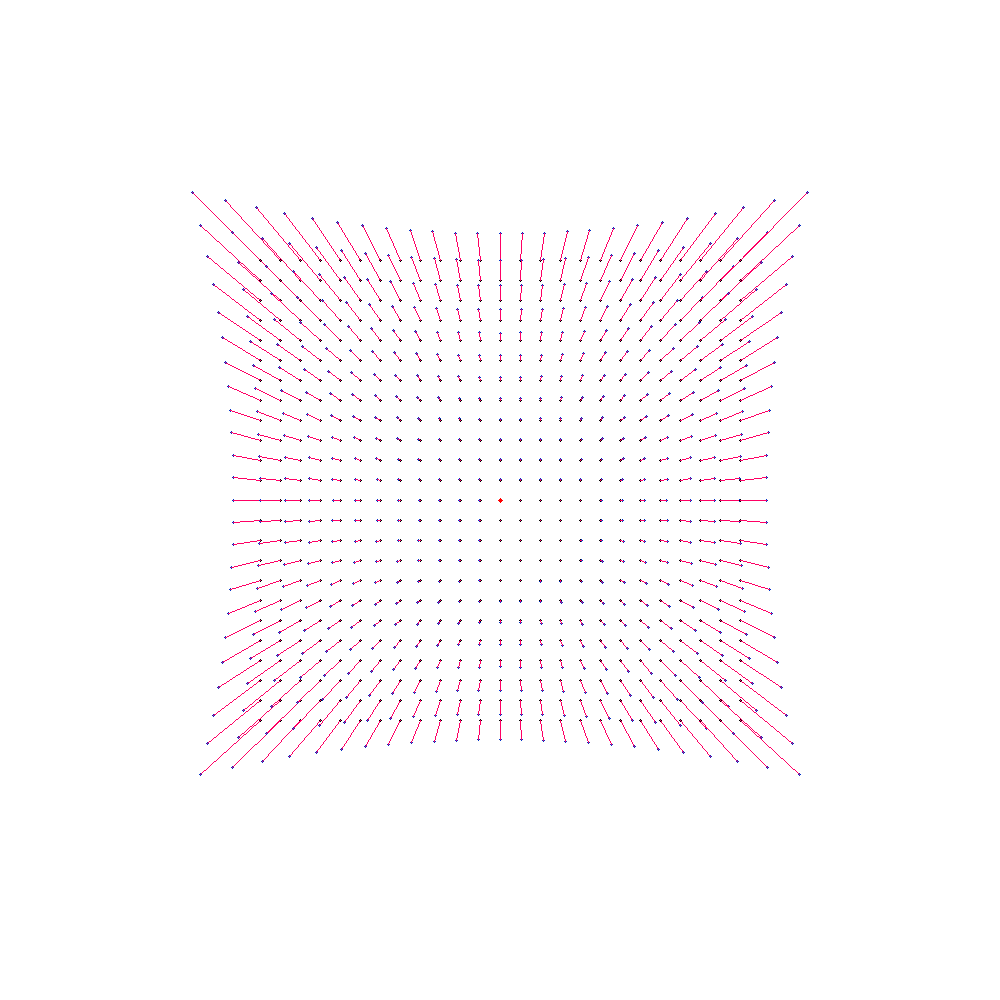
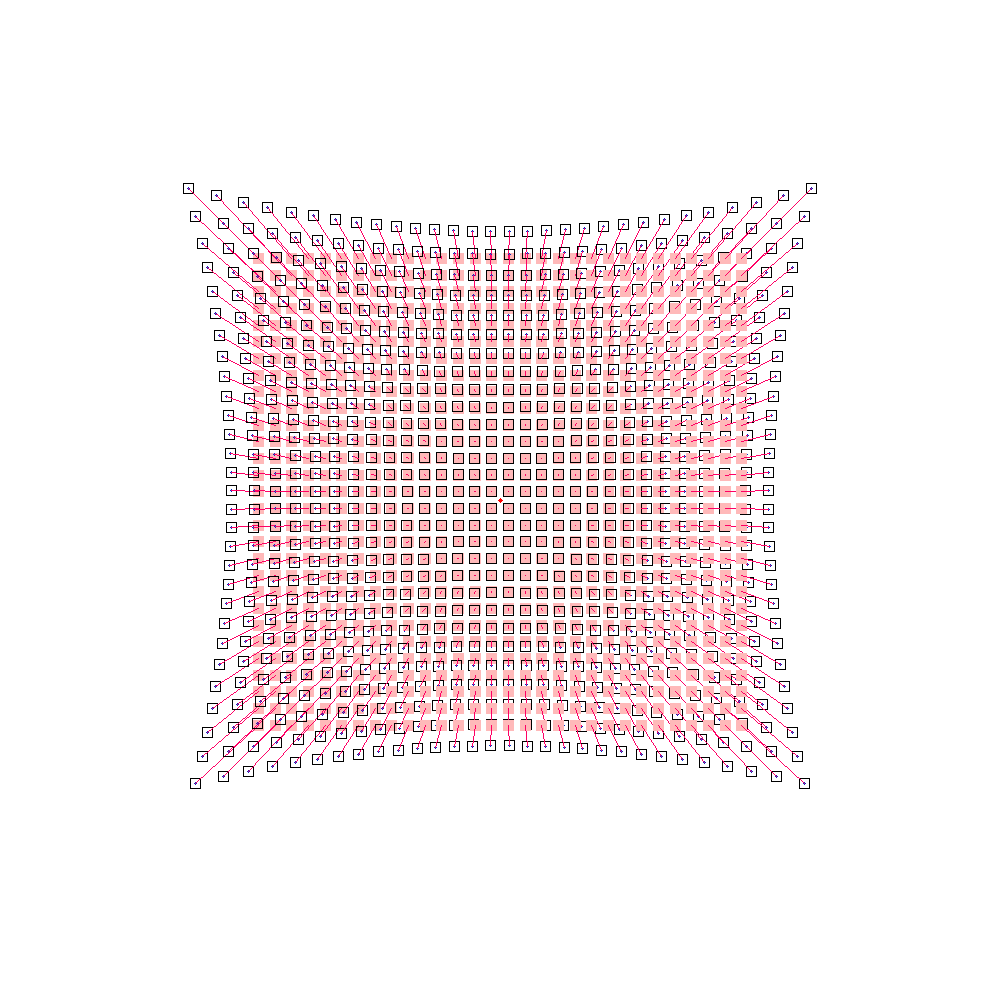
update

Changed region(s): [[0.186, 0.186, 0.806, 0.775]]

diff --git a/2d_image_plane_and_distortion.py b/2d_image_plane_and_distortion.py
@@ -5,9 +5,11 @@ import matplotlib.pyplot as plt
 image_height    = 500
 image_width     = 500
 
+rectangle_size = 5
+
 #create a list of image co-ords evenly spaced across the image
 image_co_ords = []
-num_points = 25
+num_points = 30
 
 for i in range(num_points):
     for j in range(num_points-1):
@@ -130,6 +132,12 @@ for coords in image_co_ords:
 
     cv2.circle(blank_image, (int(cx_offset),    int(cy_offset)), 2, (0,0,255),   -1)
     cv2.circle(blank_image, (int(x_offset),     int(y_offset)) , 1, (0,0,0), -1)
+
+    #draw small squares at each orgirnal and final point 
+
+    cv2.rectangle(blank_image, (int(x_offset)-rectangle_size, int(y_offset)-rectangle_size), (int(x_offset)+rectangle_size, int(y_offset)+rectangle_size), (185,185,255), -1)
+    cv2.rectangle(blank_image, (int(x_dn_offset)-rectangle_size, int(y_dn_offset)-rectangle_size), (int(x_dn_offset)+rectangle_size, int(y_dn_offset)+rectangle_size), (0,0,0), 1)
+
     #plot the vector line from original to final point 
     cv2.line(blank_image, (int(x_offset), int(y_offset)), (int(x_dn_offset), int(y_dn_offset)), (100,0,255), 1)
     #cv2.circle(blank_image, (int(x_dn_offset), int(y_dn_offset)), 1, (0,255,255), -1)

diff --git a/testing_py/testing.py b/testing_py/testing.py
@@ -12,8 +12,8 @@ debug = 2
 def main():
 
     #set the image size
-    image_height    = 50
-    image_width     = 50
+    image_height    = 5
+    image_width     = 5
 
     x, y = np.meshgrid(np.arange(image_width), np.arange(image_height))
 
@@ -60,7 +60,7 @@ def debug_level_one(cx,cy,k1,nx,ny,r2,dist_nx,dist_ny,x2,y2):
 
     #print the distorted coordinates
     print("dist_nx : \n", dist_nx)
-    print("ddist_ny : \n", dist_ny)
+    print("dist_ny : \n", dist_ny)
     
     #print the new image coordinates
     print("x2 : \n", x2)
@@ -85,6 +85,12 @@ def debug_level_two(cx,cy,k1,nx,ny,r2,dist_nx,dist_ny,x2,y2):
     #save the distorted coordinates to a textfiles
     np.savetxt("testing_py/dist_nx_values.txt", dist_nx, fmt="%f")
     np.savetxt("testing_py/dist_ny_values.txt", dist_ny, fmt="%f")
+
+    #save the x2 and y2 values to a textfile
+    np.savetxt("testing_py/x2_values.txt", x2, fmt="%f")
+    np.savetxt("testing_py/y2_values.txt", y2, fmt="%f")
+    
+    
 
 if __name__ == "__main__":
     main()
